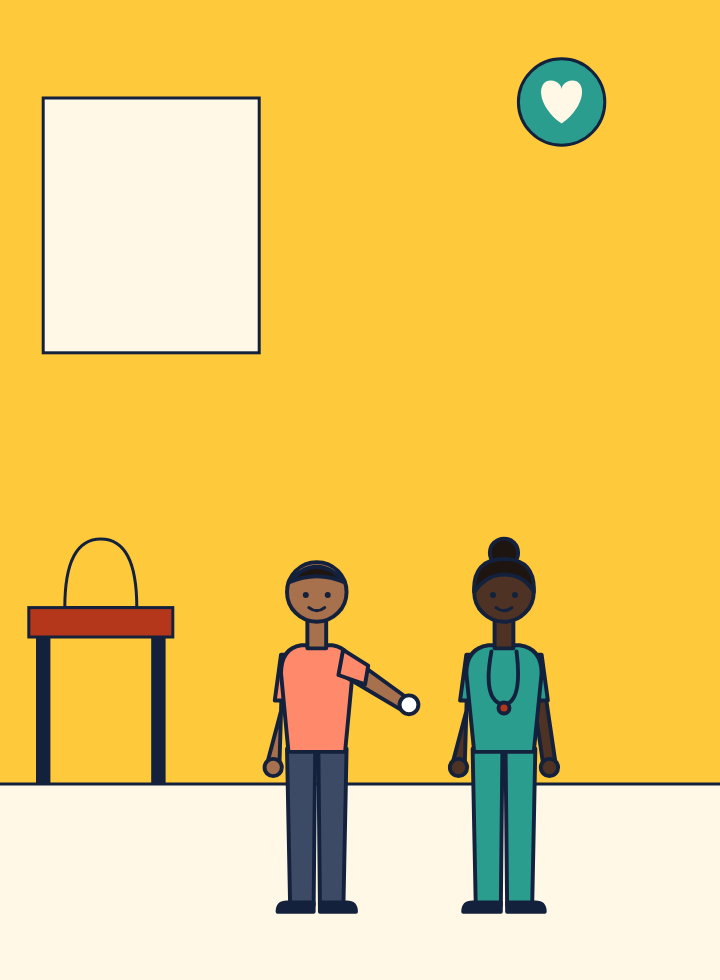
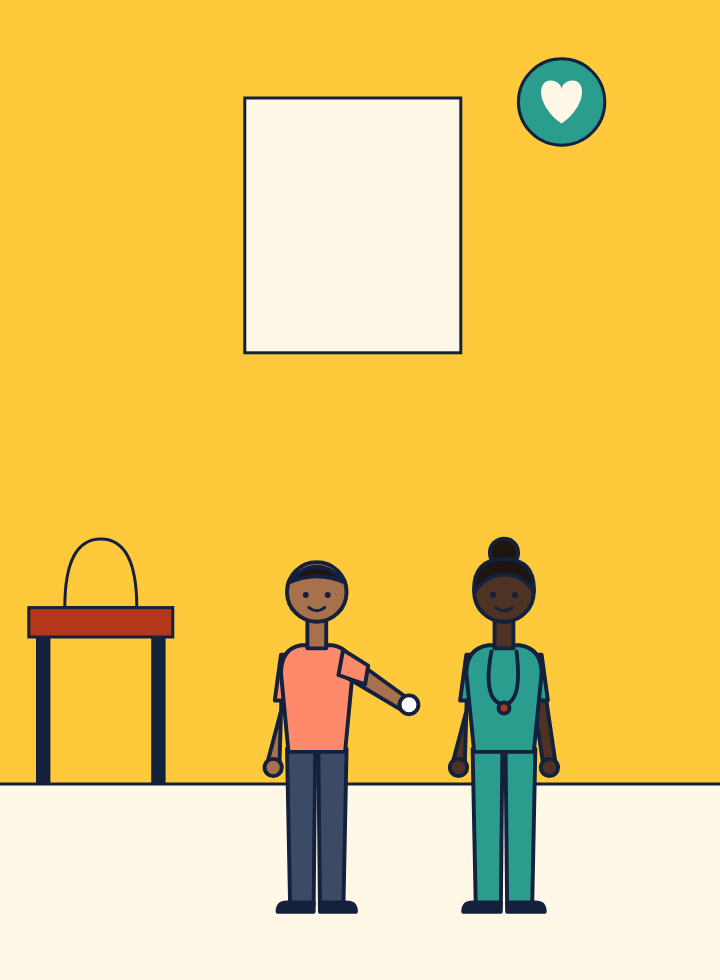
H9: clear the clinic picture's top left for the clock; make the scene builder importable
The clinic window moves right so the Figma frames' clock has room in the
top left. build_people.js now exports scene(), so the Figma sync script is
generated from the same code as the repository's pictures.

Claude-Session: https://claude.ai/code/session_01UQzgBuyjQgAmULeEgNxrLN

Changed region(s): [[0.0306, 0.0918, 0.6417, 0.3673]]

diff --git a/models/tools/public-product/design/people/build_people.js b/models/tools/public-product/design/people/build_people.js
@@ -19,7 +19,7 @@ function scene(which, W, H) {
   if (which === 'clinic') {
     // Jordan's urgent care visit (day.json, jordan / clinic): he holds out a bandaged hand to a nurse; his hard hat on the chair.
     s += R(0, 0, W, H, '#FFC93C', false) + R(-3, H * 0.8, W + 6, H * 0.2 + 3, '#FFF8E6');
-    s += R(W * 0.06, H * 0.1, W * 0.3, H * 0.26, '#FFF8E6');                       // window
+    s += R(W * 0.34, H * 0.1, W * 0.3, H * 0.26, '#FFF8E6');                       // window (top left stays clear for the clock)
     // clinic sign: a teal disc with a cream heart. Never a red (or any) cross on white: the red cross is a protected emblem (18 U.S.C. 706).
     { const cx = W * 0.78, cy = H * 0.06 + W * 0.06, r = W * 0.06, k = r / 24;
       s += `<circle cx="${cx.toFixed(1)}" cy="${cy.toFixed(1)}" r="${r.toFixed(1)}" fill="#2A9D8F" stroke="${INK}" stroke-width="3"/>`;
@@ -50,6 +50,7 @@ function scene(which, W, H) {
 }
 
 // The cast sheet: one row, grouped by family, every figure at the same scale.
+if (require.main !== module) { module.exports = { scene }; return; }
 const groups = [['Jordan', ['jordan', 'dani']], ['Maya and Sam', ['maya', 'sam', 'theo', 'nora', 'hector', 'lupe']], ['Carol and Dev', ['carol', 'dev', 'eli']], ['Supporting', ['nurse']]];
 const col = 170, gap = 40, top = 70, foot = 420, h = 340;
 let x = 30, cast = '';
